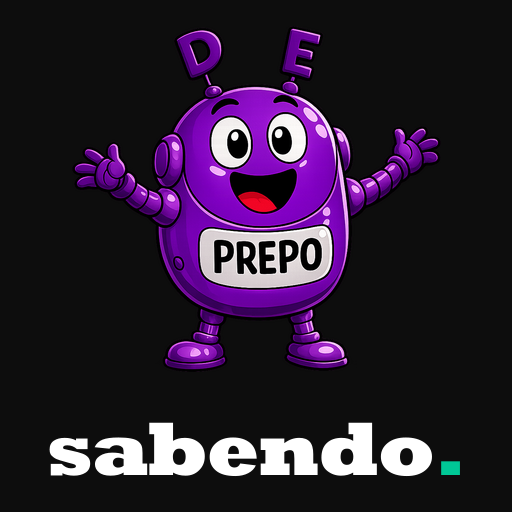
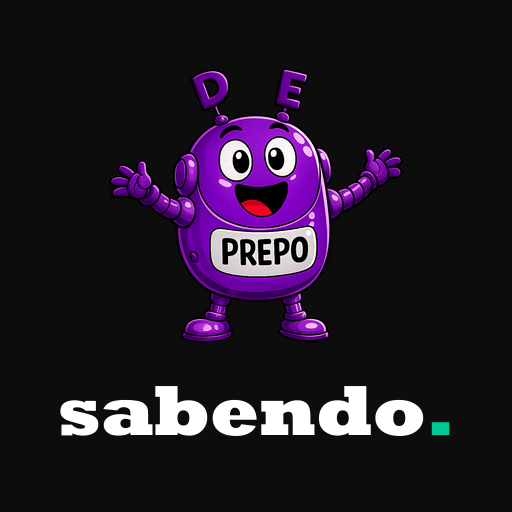
fix: ícones PWA centralizados com padding seguro em todos os lados
Conteúdo (Prepo + sabendo.) centralizado verticalmente dentro da área
útil. maskable usa pad=72px (14%) para garantir safe zone circular.
Corrige texto cortado pela máscara do Android.

Changed region(s): [[0.125, 0.0312, 0.875, 0.7188], [0.0938, 0.75, 0.9062, 0.9375]]

diff --git a/scripts/generate-icons.js b/scripts/generate-icons.js
@@ -1,6 +1,6 @@
 // Gera icon-192.png, icon-512.png e icon-maskable-512.png
-// Base: Personagens/5o ano/Prepo.png (PNG com canal alpha — fundo transparente)
-// Layout: fundo preto #0D0D0D | Prepo centralizado | "sabendo." abaixo (Syne 800)
+// Layout: fundo preto #0D0D0D | Prepo + "sabendo." centralizados verticalmente
+// O conteúdo total é calculado para caber dentro do padding em todos os lados.
 
 const path  = require('path');
 const fs    = require('fs');
@@ -11,50 +11,57 @@ const PREPO = path.join(ROOT, '..', 'Personagens', '5o ano', 'Prepo.png');
 const FONT  = path.join(__dirname, 'syne-800.ttf');
 const OUT   = path.join(ROOT, 'icons');
 
-const BG    = { r: 13,  g: 13,  b: 13,  alpha: 1 };   // #0D0D0D
+const BG        = { r: 13, g: 13, b: 13, alpha: 1 };  // #0D0D0D
 const FONT_PATH = FONT.replace(/\\/g, '/');
 
 // ── SVG de texto "sabendo." ───────────────────────────
-function textSvg(width, fontSize, y) {
+function textSvg(width, fontSize) {
   const kern = -Math.round(fontSize * 0.02);
-  return Buffer.from(`<svg xmlns="http://www.w3.org/2000/svg" width="${width}" height="${Math.round(fontSize * 1.3)}">
+  const h    = Math.round(fontSize * 1.25);
+  return Buffer.from(
+    `<svg xmlns="http://www.w3.org/2000/svg" width="${width}" height="${h}">
   <defs><style>
     @font-face { font-family: Syne; src: url("file:///${FONT_PATH}"); font-weight: 800; }
   </style></defs>
-  <text x="${width / 2}" y="${Math.round(fontSize * 1.05)}"
+  <text x="${width / 2}" y="${Math.round(fontSize * 1.0)}"
     font-family="Syne, sans-serif" font-weight="800" font-size="${fontSize}"
     text-anchor="middle" letter-spacing="${kern}">
     <tspan fill="#FFFFFF">sabendo</tspan><tspan fill="#00C896">.</tspan>
   </text>
-</svg>`);
+</svg>`
+  );
 }
 
-// ── Gera um ícone ─────────────────────────────────────
-// prepoFrac  : fração da altura ocupada pelo Prepo
-// textFrac   : tamanho da fonte como fração do size
-// padFrac    : padding top/lateral como fração do size
-async function makeIcon(size, prepoFrac, textFrac, padFrac, outFile) {
-  const pad      = Math.round(size * padFrac);
-  const prepoSz  = Math.round(size * prepoFrac);
-  const fontSize = Math.round(size * textFrac);
+// ── Gera um ícone com conteúdo centralizado ───────────
+// pad        : pixels de padding em todos os lados (zona segura)
+// prepoRatio : tamanho do Prepo como fração da área útil
+// fontRatio  : tamanho da fonte como fração do size total
+async function makeIcon(size, pad, prepoRatio, fontRatio, outFile) {
+  const usable   = size - 2 * pad;           // área útil quadrada
+  const prepoSz  = Math.round(usable * prepoRatio);
+  const fontSize = Math.round(size * fontRatio);
+  const gap      = Math.round(size * 0.02);
+  const textH    = Math.round(fontSize * 1.25);
 
-  // Prepo: remove área transparente ao redor antes de redimensionar
+  // Altura total do conteúdo (Prepo + gap + texto)
+  const contentH = prepoSz + gap + textH;
+  // Offset vertical para centralizar o bloco dentro da área útil
+  const vOffset  = Math.round((usable - contentH) / 2);
+
+  const prepoY = pad + vOffset;
+  const prepoX = Math.round((size - prepoSz) / 2);
+  const textY  = prepoY + prepoSz + gap;
+
+  // Prepo sem fundo, trimado
   const prepoBuf = await sharp(PREPO)
     .trim({ background: { r: 0, g: 0, b: 0, alpha: 0 }, threshold: 10 })
     .resize(prepoSz, prepoSz, { fit: 'contain', background: { r: 0, g: 0, b: 0, alpha: 0 } })
     .png()
     .toBuffer();
 
-  // Posição central horizontal do Prepo
-  const prepoX = Math.round((size - prepoSz) / 2);
-  const prepoY = pad;
+  // Texto
+  const textBuf = await sharp(textSvg(size, fontSize)).png().toBuffer();
 
-  // Texto "sabendo."
-  const textH   = Math.round(fontSize * 1.3);
-  const textBuf = await sharp(textSvg(size, fontSize, 0)).png().toBuffer();
-  const textY   = prepoY + prepoSz + Math.round(size * 0.02);
-
-  // Monta o ícone
   await sharp({ create: { width: size, height: size, channels: 4, background: BG } })
     .composite([
       { input: prepoBuf, top: prepoY, left: prepoX },
@@ -63,18 +70,19 @@ async function makeIcon(size, prepoFrac, textFrac, padFrac, outFile) {
     .png()
     .toFile(outFile);
 
-  console.log(`✓ ${path.basename(outFile)} (${size}×${size})`);
+  const bottom = textY + textH;
+  console.log(`✓ ${path.basename(outFile)} (${size}×${size}) | prepoY=${prepoY} textY=${textY} bottom=${bottom} pad=${pad}`);
 }
 
 (async () => {
-  // icon-192: Prepo 72%, fonte 15%, padding 3%
-  await makeIcon(192, 0.72, 0.15, 0.03, path.join(OUT, 'icon-192.png'));
+  // icon-192: pad=16px, Prepo 68% da área útil, fonte 14% do size
+  await makeIcon(192, 16, 0.68, 0.14, path.join(OUT, 'icon-192.png'));
 
-  // icon-512: Prepo 72%, fonte 15%, padding 3%
-  await makeIcon(512, 0.72, 0.15, 0.03, path.join(OUT, 'icon-512.png'));
+  // icon-512: pad=40px, Prepo 68% da área útil, fonte 14% do size
+  await makeIcon(512, 40, 0.68, 0.14, path.join(OUT, 'icon-512.png'));
 
-  // maskable-512: padding maior (12%) para safe zone — Prepo 60%
-  await makeIcon(512, 0.60, 0.13, 0.12, path.join(OUT, 'icon-maskable-512.png'));
+  // maskable-512: pad=72px (14% do size = safe zone circular), Prepo 65%
+  await makeIcon(512, 72, 0.65, 0.12, path.join(OUT, 'icon-maskable-512.png'));
 
   console.log('Ícones gerados em icons/');
 })();
